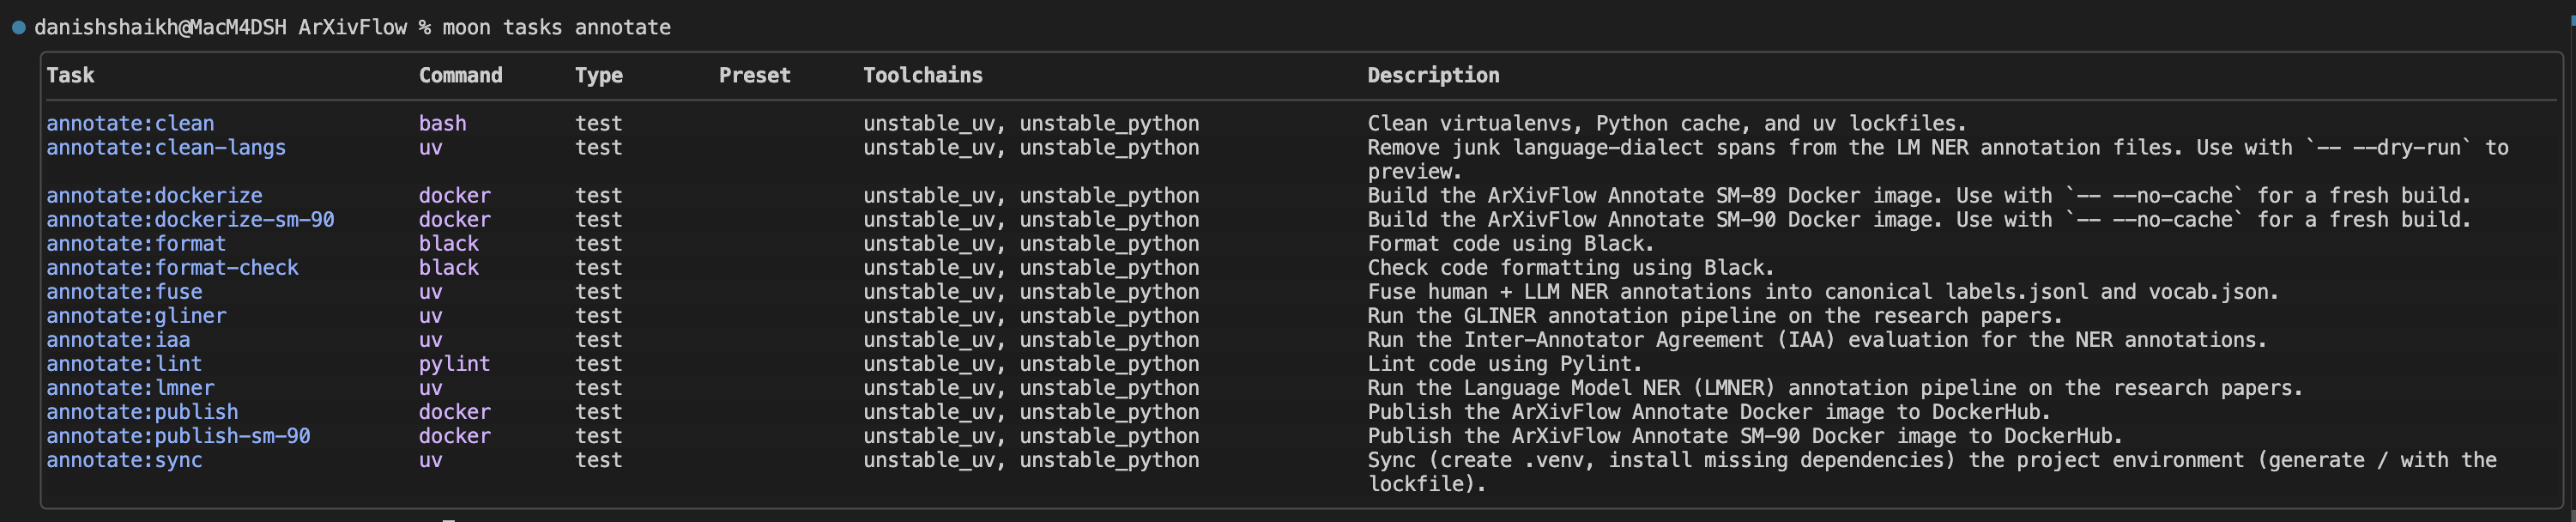
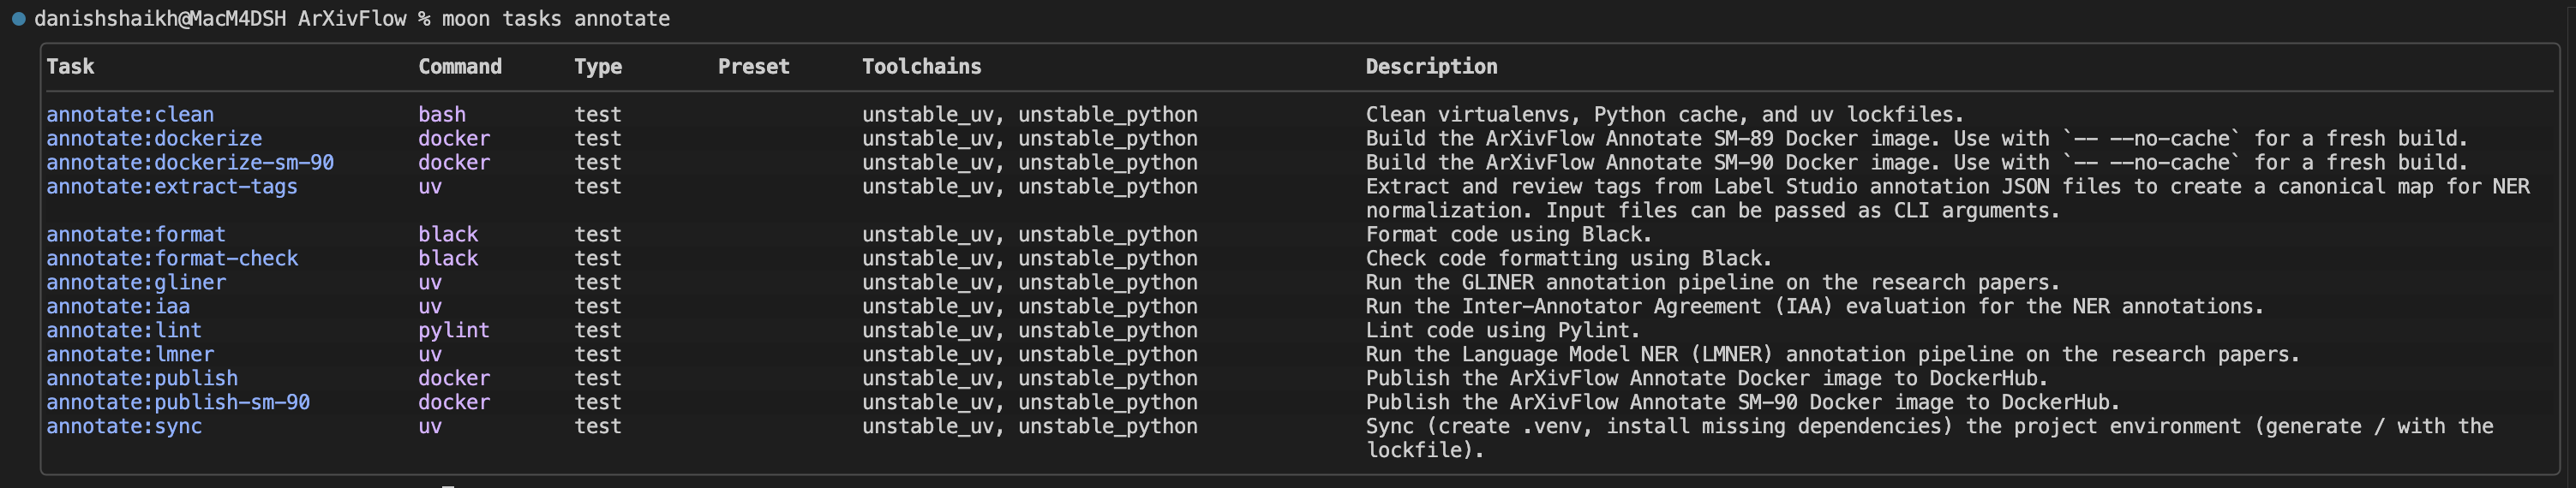
docs(annotate): add post-processing details

diff --git a/packages/annotate/README.md b/packages/annotate/README.md
@@ -38,6 +38,8 @@ Annotate the scraped dataset using **Kubernetes** deployment of [Label Studio][l
 | Qwen 2.5 14B Instruct | Qwen/Qwen2.5-14B-Instruct |               29.6 GB               |
 |    Microsoft phi 4    |      microsoft/phi-4      |               29.3 GB               |
 
+- Post-processs annotations to produce normalized canonical list of NER labels, ready to be used as metadata in ChromaDB.
+
 ---
 
 ## Task Management with Moon
@@ -100,6 +102,10 @@ Ensure your copied `.env` properties have real values filled in before executing
 │ │ │ ├── `gliner.py`             # GLiNER model and NER inference logic
 │ │ │ ├── `lmner.py`              # Language Model NER inference logic
 │ │ │ └── `schema.py`             # data schema for annotations
+│ │ ├── postprocess/
+│ │ │ ├── `__init__.py`           # package initializer for postprocess module
+│ │ │ ├── `config.py`             # post-processing configuration values
+│ │ │ └── `extract_tags.py`       # tag extraction and post-processing logic
 │ │ └── quality/
 │ │   ├── `__init__.py`           # package initializer for quality module
 │ │   ├── `config.py`             # IAA configuration values
@@ -107,6 +113,7 @@ Ensure your copied `.env` properties have real values filled in before executing
 │ ├── `logs/`                     # directory for runtime logs and output artifacts
 │ └── utils/
 │   ├── `__init__.py`             # utilities package initializer
+│   ├── `annotations.py`          # annotation helper utilities
 │   ├── `logger.py`               # logging setup and helpers
 │   └── `path.py`                 # path utilities used across the package
 ├── `Dockerfile`                  # container image build for the annotate service(s)
@@ -212,6 +219,13 @@ Connect to ArXivFlow PVC
 <img img src = "assets/connect.png" alt = "Review Source Image"/>
 
 </div>
+
+Download the annotations to run post-process scripts followed uploading the canonical tags.
+
+```bash
+kubectl cp ./data/canonical_map.json arxivflow-pvc-inspector:/data/arxivflow/data/ # Run from ArXivFlow workspace folder.
+```
+
 
 ### NER using GLiNER Large 2.1
 